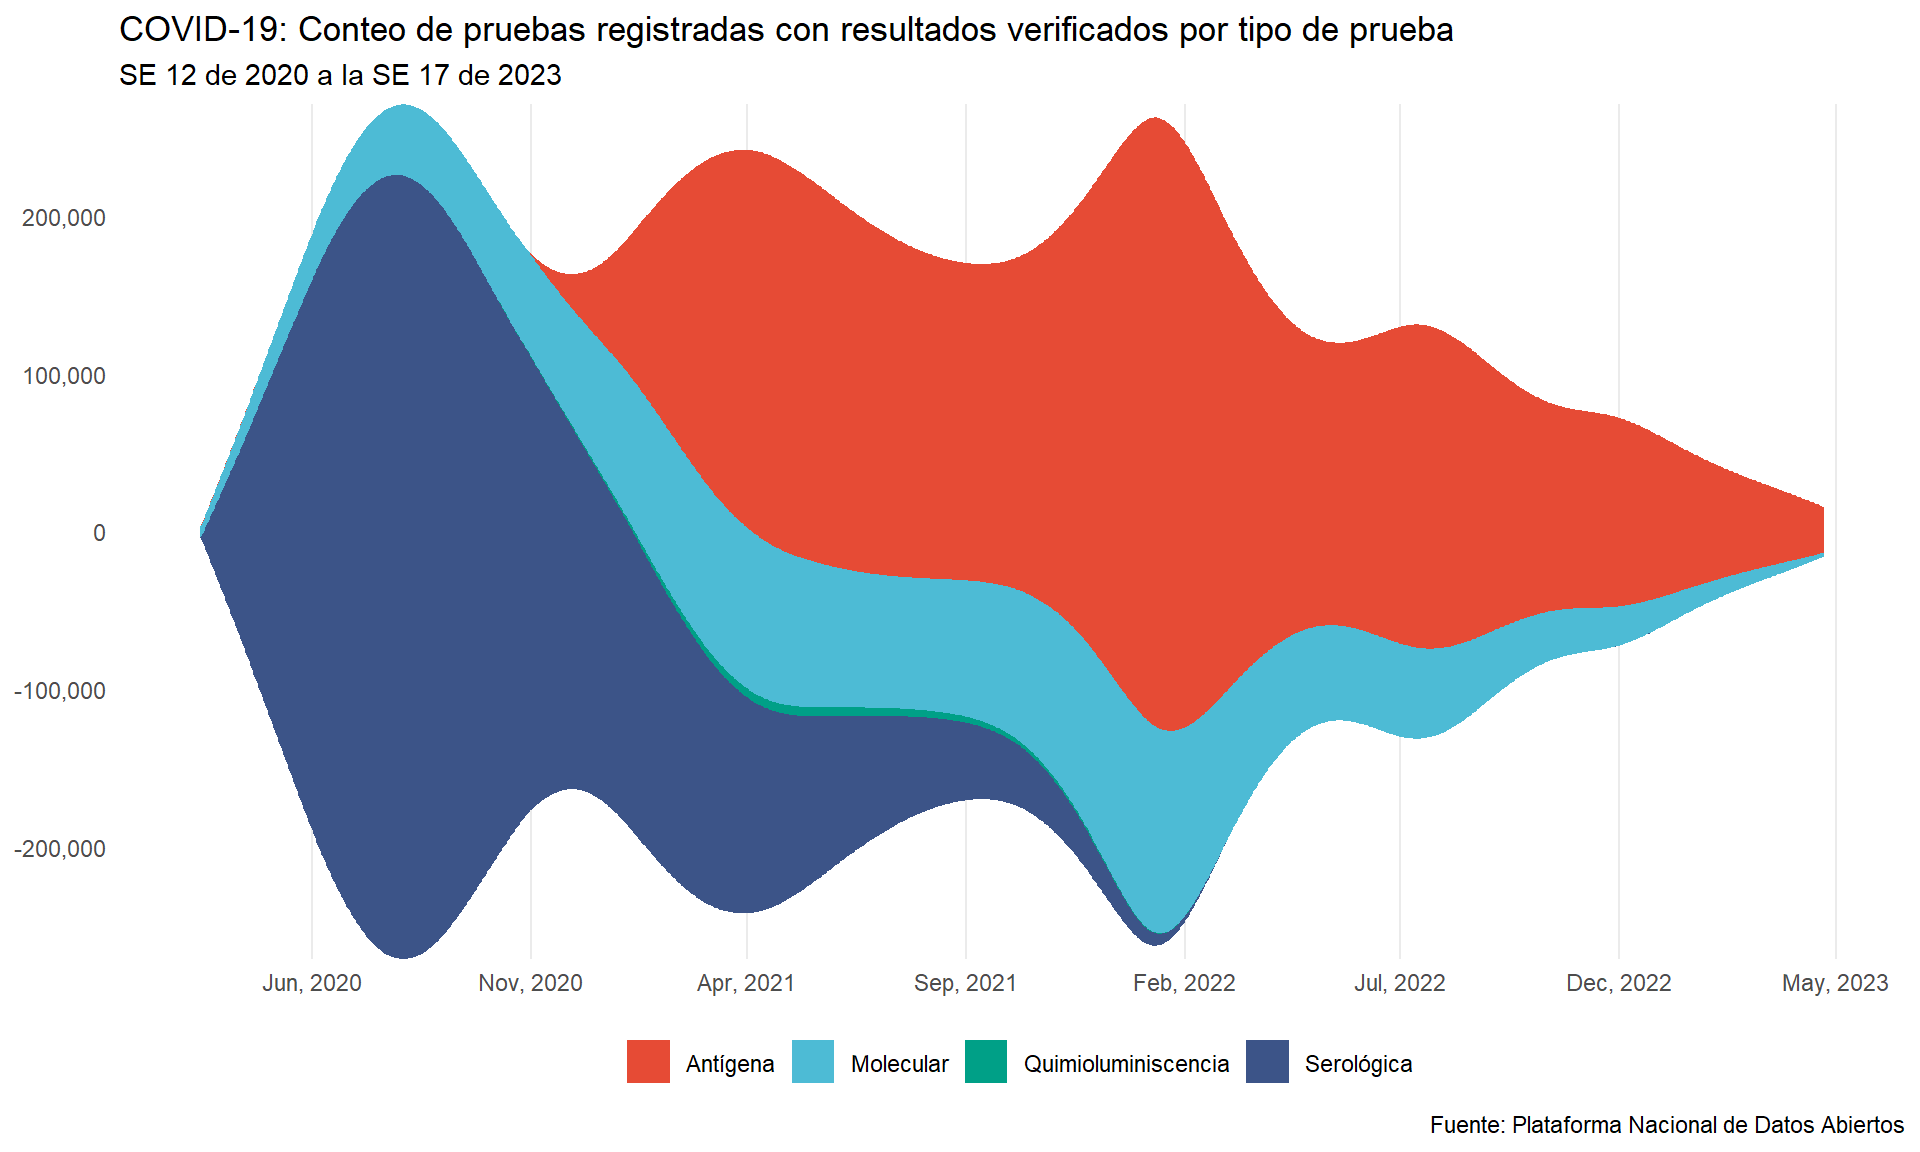
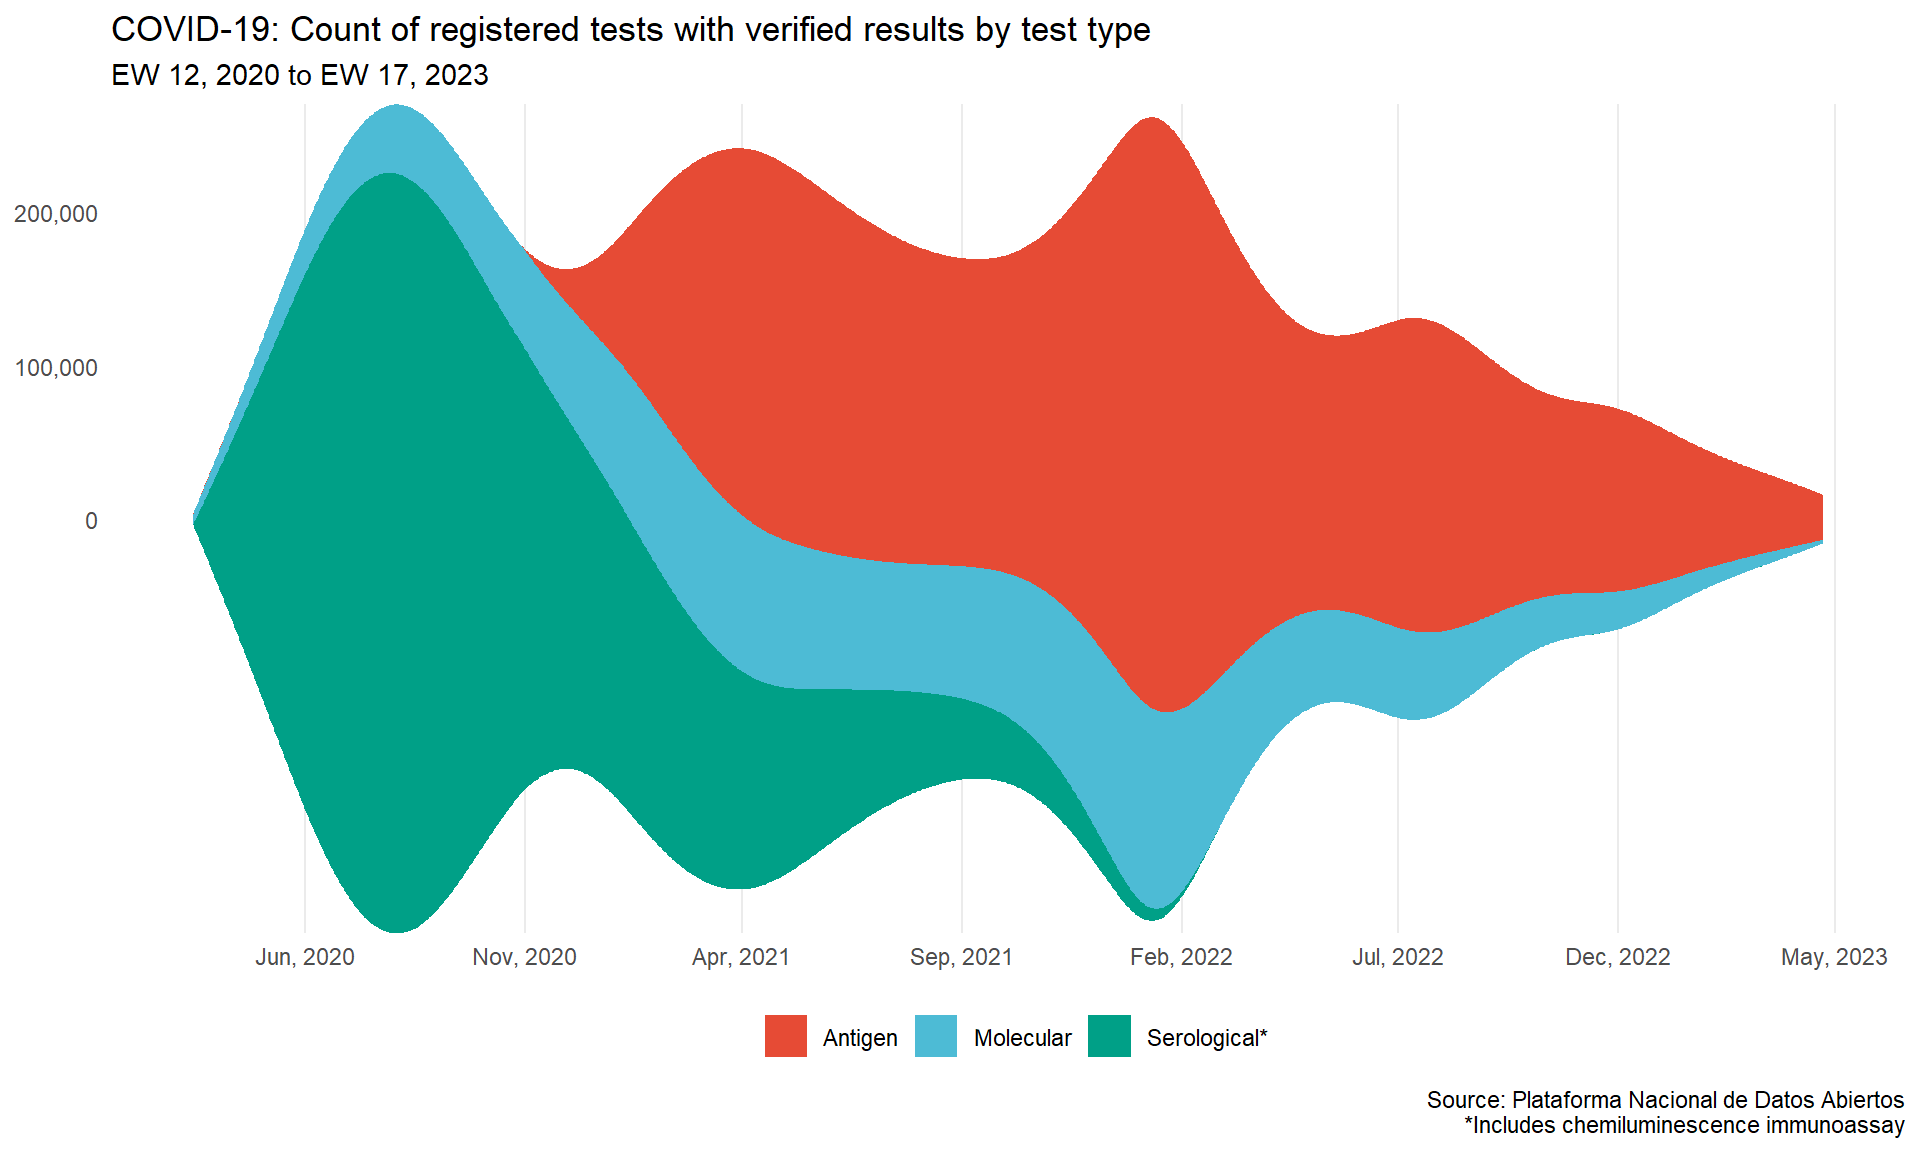
Fix plots

diff --git a/00-plots.html b/00-plots.html
@@ -149,8 +149,8 @@ code span.wa { color: #60a0b0; font-weight: bold; font-style: italic; } /* Warni
 </div>
 <div class="cell">
 <div class="sourceCode cell-code" id="cb4"><pre class="sourceCode r code-with-copy"><code class="sourceCode r"><span id="cb4-1"><a href="#cb4-1" aria-hidden="true" tabindex="-1"></a>facet_names <span class="ot">=</span> <span class="fu">c</span>(</span>
-<span id="cb4-2"><a href="#cb4-2" aria-hidden="true" tabindex="-1"></a>  <span class="st">"cases"</span> <span class="ot">=</span> <span class="st">"Casos positivos"</span>, <span class="st">"deaths"</span> <span class="ot">=</span> <span class="st">"Fallecimientos"</span>,</span>
-<span id="cb4-3"><a href="#cb4-3" aria-hidden="true" tabindex="-1"></a>  <span class="st">"m_tests"</span> <span class="ot">=</span> <span class="st">"Pruebas moleculares"</span>, <span class="st">"nm_tests"</span> <span class="ot">=</span> <span class="st">"Pruebas no moleculares"</span></span>
+<span id="cb4-2"><a href="#cb4-2" aria-hidden="true" tabindex="-1"></a>  <span class="st">"cases"</span> <span class="ot">=</span> <span class="st">"Positive cases"</span>, <span class="st">"deaths"</span> <span class="ot">=</span> <span class="st">"Deaths"</span>,</span>
+<span id="cb4-3"><a href="#cb4-3" aria-hidden="true" tabindex="-1"></a>  <span class="st">"m_tests"</span> <span class="ot">=</span> <span class="st">"Molecular tests"</span>, <span class="st">"nm_tests"</span> <span class="ot">=</span> <span class="st">"Non-molecular tests"</span></span>
 <span id="cb4-4"><a href="#cb4-4" aria-hidden="true" tabindex="-1"></a>)</span></code><button title="Copy to Clipboard" class="code-copy-button"><i class="bi"></i></button></pre></div>
 </div>
 <div class="cell">
@@ -175,9 +175,9 @@ code span.wa { color: #60a0b0; font-weight: bold; font-style: italic; } /* Warni
 <span id="cb6-11"><a href="#cb6-11" aria-hidden="true" tabindex="-1"></a>  ) <span class="sc">+</span></span>
 <span id="cb6-12"><a href="#cb6-12" aria-hidden="true" tabindex="-1"></a>  <span class="fu">labs</span>(</span>
 <span id="cb6-13"><a href="#cb6-13" aria-hidden="true" tabindex="-1"></a>    <span class="at">y =</span> <span class="cn">NULL</span>, <span class="at">x =</span> <span class="cn">NULL</span>,</span>
-<span id="cb6-14"><a href="#cb6-14" aria-hidden="true" tabindex="-1"></a>    <span class="at">title =</span> <span class="st">"COVID-19: Conteo de casos positivos, fallecimientos, pruebas moleculares y no moleculares"</span>,</span>
-<span id="cb6-15"><a href="#cb6-15" aria-hidden="true" tabindex="-1"></a>    <span class="at">subtitle =</span> <span class="st">"SE 12 de 2020 a la SE 17 de 2023"</span>,</span>
-<span id="cb6-16"><a href="#cb6-16" aria-hidden="true" tabindex="-1"></a>    <span class="at">caption =</span> <span class="st">"Fuente: Plataforma Nacional de Datos Abiertos"</span></span>
+<span id="cb6-14"><a href="#cb6-14" aria-hidden="true" tabindex="-1"></a>    <span class="at">title =</span> <span class="st">"COVID-19: Count of positive cases, deaths, molecular and non-molecular tests"</span>,</span>
+<span id="cb6-15"><a href="#cb6-15" aria-hidden="true" tabindex="-1"></a>    <span class="at">subtitle =</span> <span class="st">"EW 12, 2020 to EW 17, 2023"</span>,</span>
+<span id="cb6-16"><a href="#cb6-16" aria-hidden="true" tabindex="-1"></a>    <span class="at">caption =</span> <span class="st">"Source: Plataforma Nacional de Datos Abiertos"</span></span>
 <span id="cb6-17"><a href="#cb6-17" aria-hidden="true" tabindex="-1"></a>  )</span></code><button title="Copy to Clipboard" class="code-copy-button"><i class="bi"></i></button></pre></div>
 </div>
 <div class="cell">
@@ -211,7 +211,15 @@ code span.wa { color: #60a0b0; font-weight: bold; font-style: italic; } /* Warni
 <span id="cb10-7"><a href="#cb10-7" aria-hidden="true" tabindex="-1"></a>    week_start <span class="sc">&gt;=</span> <span class="fu">as.Date</span>(<span class="fu">min</span>(weekly_long<span class="sc">$</span>week_start)), </span>
 <span id="cb10-8"><a href="#cb10-8" aria-hidden="true" tabindex="-1"></a>    week_start <span class="sc">&lt;=</span> <span class="fu">as.Date</span>(<span class="fu">max</span>(weekly_long<span class="sc">$</span>week_start))</span>
 <span id="cb10-9"><a href="#cb10-9" aria-hidden="true" tabindex="-1"></a>  ) <span class="sc">|&gt;</span> </span>
-<span id="cb10-10"><a href="#cb10-10" aria-hidden="true" tabindex="-1"></a>  <span class="fu">arrange</span>(type, week_start)</span></code><button title="Copy to Clipboard" class="code-copy-button"><i class="bi"></i></button></pre></div>
+<span id="cb10-10"><a href="#cb10-10" aria-hidden="true" tabindex="-1"></a>  <span class="fu">arrange</span>(type, week_start) <span class="sc">|&gt;</span> </span>
+<span id="cb10-11"><a href="#cb10-11" aria-hidden="true" tabindex="-1"></a>  <span class="fu">mutate</span>(</span>
+<span id="cb10-12"><a href="#cb10-12" aria-hidden="true" tabindex="-1"></a>    <span class="at">type =</span> <span class="fu">case_when</span>(</span>
+<span id="cb10-13"><a href="#cb10-13" aria-hidden="true" tabindex="-1"></a>      type <span class="sc">==</span> <span class="st">"Quimioluminiscencia"</span> <span class="sc">~</span> <span class="st">"Serológica"</span>,</span>
+<span id="cb10-14"><a href="#cb10-14" aria-hidden="true" tabindex="-1"></a>      <span class="at">.default =</span> <span class="fu">as.character</span>(type)</span>
+<span id="cb10-15"><a href="#cb10-15" aria-hidden="true" tabindex="-1"></a>    )</span>
+<span id="cb10-16"><a href="#cb10-16" aria-hidden="true" tabindex="-1"></a>  ) <span class="sc">|&gt;</span> </span>
+<span id="cb10-17"><a href="#cb10-17" aria-hidden="true" tabindex="-1"></a>  <span class="fu">group_by</span>(type, week_start) <span class="sc">|&gt;</span> </span>
+<span id="cb10-18"><a href="#cb10-18" aria-hidden="true" tabindex="-1"></a>  <span class="fu">summarise</span>(<span class="at">tests =</span> <span class="fu">sum</span>(tests), <span class="at">.groups =</span> <span class="st">"drop"</span>)</span></code><button title="Copy to Clipboard" class="code-copy-button"><i class="bi"></i></button></pre></div>
 </div>
 <div class="cell">
 <div class="sourceCode cell-code" id="cb11"><pre class="sourceCode r code-with-copy"><code class="sourceCode r"><span id="cb11-1"><a href="#cb11-1" aria-hidden="true" tabindex="-1"></a>weekly_type_plot_base <span class="ot">=</span> weekly_type <span class="sc">|&gt;</span> </span>
@@ -221,21 +229,28 @@ code span.wa { color: #60a0b0; font-weight: bold; font-style: italic; } /* Warni
 <div class="cell">
 <div class="sourceCode cell-code" id="cb12"><pre class="sourceCode r code-with-copy"><code class="sourceCode r"><span id="cb12-1"><a href="#cb12-1" aria-hidden="true" tabindex="-1"></a>weekly_type_plot <span class="ot">=</span> weekly_type_plot_base <span class="sc">+</span></span>
 <span id="cb12-2"><a href="#cb12-2" aria-hidden="true" tabindex="-1"></a>  <span class="fu">scale_x_date</span>(<span class="at">date_breaks =</span> <span class="st">"5 months"</span>, <span class="at">date_labels =</span> <span class="st">"%b, %Y"</span>) <span class="sc">+</span></span>
-<span id="cb12-3"><a href="#cb12-3" aria-hidden="true" tabindex="-1"></a>  <span class="fu">scale_y_continuous</span>(<span class="at">labels =</span> scales<span class="sc">::</span><span class="fu">label_comma</span>(), <span class="at">expand =</span> <span class="fu">c</span>(<span class="dv">0</span>, <span class="dv">0</span>)) <span class="sc">+</span></span>
-<span id="cb12-4"><a href="#cb12-4" aria-hidden="true" tabindex="-1"></a>  ggsci<span class="sc">::</span><span class="fu">scale_fill_npg</span>() <span class="sc">+</span></span>
-<span id="cb12-5"><a href="#cb12-5" aria-hidden="true" tabindex="-1"></a>  <span class="fu">theme_minimal</span>() <span class="sc">+</span></span>
-<span id="cb12-6"><a href="#cb12-6" aria-hidden="true" tabindex="-1"></a>  <span class="fu">theme</span>(</span>
-<span id="cb12-7"><a href="#cb12-7" aria-hidden="true" tabindex="-1"></a>    <span class="at">panel.grid.major.y =</span> <span class="fu">element_blank</span>(),</span>
-<span id="cb12-8"><a href="#cb12-8" aria-hidden="true" tabindex="-1"></a>    <span class="at">panel.grid.minor.y =</span> <span class="fu">element_blank</span>(),</span>
-<span id="cb12-9"><a href="#cb12-9" aria-hidden="true" tabindex="-1"></a>    <span class="at">panel.grid.minor.x =</span> <span class="fu">element_blank</span>(),</span>
-<span id="cb12-10"><a href="#cb12-10" aria-hidden="true" tabindex="-1"></a>    <span class="at">legend.position =</span> <span class="st">"bottom"</span></span>
+<span id="cb12-3"><a href="#cb12-3" aria-hidden="true" tabindex="-1"></a>  <span class="fu">scale_y_continuous</span>(</span>
+<span id="cb12-4"><a href="#cb12-4" aria-hidden="true" tabindex="-1"></a>    <span class="at">labels =</span> scales<span class="sc">::</span><span class="fu">label_comma</span>(), <span class="at">expand =</span> <span class="fu">c</span>(<span class="dv">0</span>, <span class="dv">0</span>), </span>
+<span id="cb12-5"><a href="#cb12-5" aria-hidden="true" tabindex="-1"></a>    <span class="at">breaks =</span> <span class="fu">c</span>(<span class="cn">NULL</span>, <span class="cn">NULL</span>, <span class="dv">0</span>, <span class="dv">100000</span>, <span class="dv">200000</span>)</span>
+<span id="cb12-6"><a href="#cb12-6" aria-hidden="true" tabindex="-1"></a>  ) <span class="sc">+</span></span>
+<span id="cb12-7"><a href="#cb12-7" aria-hidden="true" tabindex="-1"></a>  ggsci<span class="sc">::</span><span class="fu">scale_fill_npg</span>(</span>
+<span id="cb12-8"><a href="#cb12-8" aria-hidden="true" tabindex="-1"></a>    <span class="at">labels =</span> <span class="fu">c</span>(</span>
+<span id="cb12-9"><a href="#cb12-9" aria-hidden="true" tabindex="-1"></a>      <span class="st">"Antigen"</span>, <span class="st">"Molecular"</span>, <span class="st">"Serological*"</span></span>
+<span id="cb12-10"><a href="#cb12-10" aria-hidden="true" tabindex="-1"></a>    )</span>
 <span id="cb12-11"><a href="#cb12-11" aria-hidden="true" tabindex="-1"></a>  ) <span class="sc">+</span></span>
-<span id="cb12-12"><a href="#cb12-12" aria-hidden="true" tabindex="-1"></a>  <span class="fu">labs</span>(</span>
-<span id="cb12-13"><a href="#cb12-13" aria-hidden="true" tabindex="-1"></a>    <span class="at">y =</span> <span class="cn">NULL</span>, <span class="at">x =</span> <span class="cn">NULL</span>, <span class="at">fill =</span> <span class="cn">NULL</span>,</span>
-<span id="cb12-14"><a href="#cb12-14" aria-hidden="true" tabindex="-1"></a>    <span class="at">title =</span> <span class="st">"COVID-19: Conteo de pruebas registradas con resultados verificados por tipo de prueba"</span>,</span>
-<span id="cb12-15"><a href="#cb12-15" aria-hidden="true" tabindex="-1"></a>    <span class="at">subtitle =</span> <span class="st">"SE 12 de 2020 a la SE 17 de 2023"</span>,</span>
-<span id="cb12-16"><a href="#cb12-16" aria-hidden="true" tabindex="-1"></a>    <span class="at">caption =</span> <span class="st">"Fuente: Plataforma Nacional de Datos Abiertos"</span></span>
-<span id="cb12-17"><a href="#cb12-17" aria-hidden="true" tabindex="-1"></a>  )</span></code><button title="Copy to Clipboard" class="code-copy-button"><i class="bi"></i></button></pre></div>
+<span id="cb12-12"><a href="#cb12-12" aria-hidden="true" tabindex="-1"></a>  <span class="fu">theme_minimal</span>() <span class="sc">+</span></span>
+<span id="cb12-13"><a href="#cb12-13" aria-hidden="true" tabindex="-1"></a>  <span class="fu">theme</span>(</span>
+<span id="cb12-14"><a href="#cb12-14" aria-hidden="true" tabindex="-1"></a>    <span class="at">panel.grid.major.y =</span> <span class="fu">element_blank</span>(),</span>
+<span id="cb12-15"><a href="#cb12-15" aria-hidden="true" tabindex="-1"></a>    <span class="at">panel.grid.minor.y =</span> <span class="fu">element_blank</span>(),</span>
+<span id="cb12-16"><a href="#cb12-16" aria-hidden="true" tabindex="-1"></a>    <span class="at">panel.grid.minor.x =</span> <span class="fu">element_blank</span>(),</span>
+<span id="cb12-17"><a href="#cb12-17" aria-hidden="true" tabindex="-1"></a>    <span class="at">legend.position =</span> <span class="st">"bottom"</span></span>
+<span id="cb12-18"><a href="#cb12-18" aria-hidden="true" tabindex="-1"></a>  ) <span class="sc">+</span></span>
+<span id="cb12-19"><a href="#cb12-19" aria-hidden="true" tabindex="-1"></a>  <span class="fu">labs</span>(</span>
+<span id="cb12-20"><a href="#cb12-20" aria-hidden="true" tabindex="-1"></a>    <span class="at">y =</span> <span class="cn">NULL</span>, <span class="at">x =</span> <span class="cn">NULL</span>, <span class="at">fill =</span> <span class="cn">NULL</span>,</span>
+<span id="cb12-21"><a href="#cb12-21" aria-hidden="true" tabindex="-1"></a>    <span class="at">title =</span> <span class="st">"COVID-19: Count of registered tests with verified results by test type"</span>,</span>
+<span id="cb12-22"><a href="#cb12-22" aria-hidden="true" tabindex="-1"></a>    <span class="at">subtitle =</span> <span class="st">"EW 12, 2020 to EW 17, 2023"</span>,</span>
+<span id="cb12-23"><a href="#cb12-23" aria-hidden="true" tabindex="-1"></a>    <span class="at">caption =</span> <span class="st">"Source: Plataforma Nacional de Datos Abiertos</span><span class="sc">\n</span><span class="st">*Includes chemiluminescence immunoassay"</span></span>
+<span id="cb12-24"><a href="#cb12-24" aria-hidden="true" tabindex="-1"></a>  )</span></code><button title="Copy to Clipboard" class="code-copy-button"><i class="bi"></i></button></pre></div>
 </div>
 <div class="cell">
 <div class="sourceCode cell-code" id="cb13"><pre class="sourceCode r code-with-copy"><code class="sourceCode r"><span id="cb13-1"><a href="#cb13-1" aria-hidden="true" tabindex="-1"></a>weekly_type_plot</span></code><button title="Copy to Clipboard" class="code-copy-button"><i class="bi"></i></button></pre></div>
